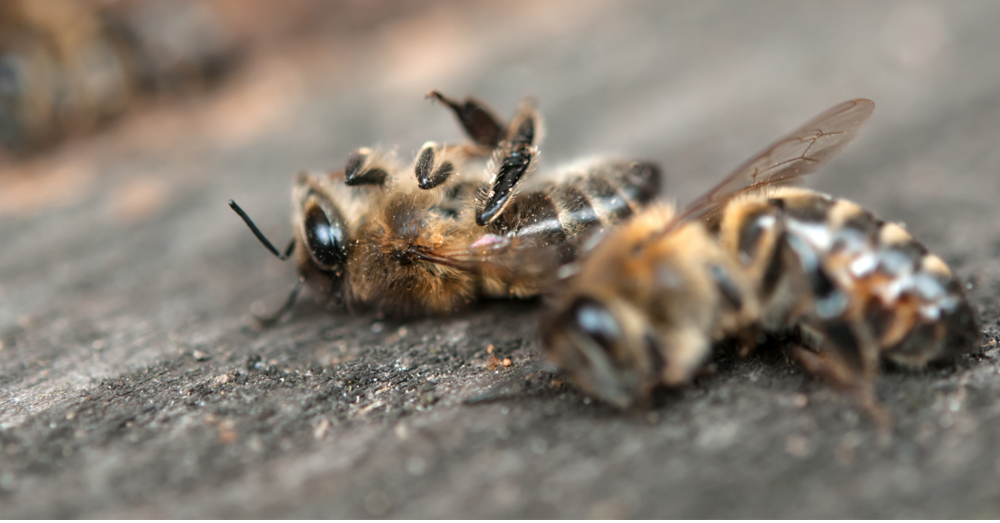
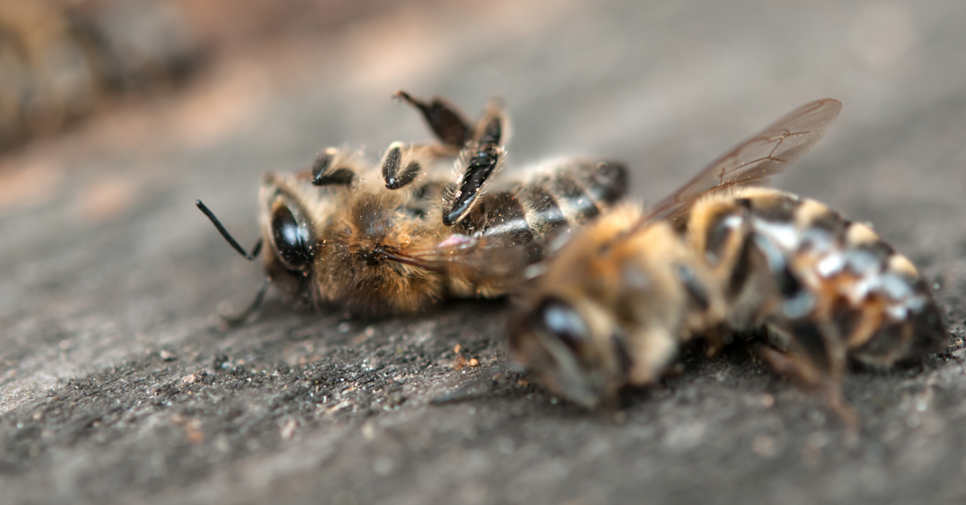
update to mission images

diff --git a/less/index.less b/less/index.less
@@ -244,7 +244,7 @@ h1 {
   }
 
 
-  .img1, .img2, .img3 {
+  .img1, .img2, .img3, .img4 {
       width: 45%;
       height: 300px;
       margin: 20px;
@@ -265,6 +265,11 @@ h1 {
   .img3 {
     margin-top: 25px;
     margin-right: 70px;
+  }
+
+  .img4 {
+    margin-top: 50px;
+    margin-right: 40px;
   }
 
   .topContent {
@@ -479,11 +484,10 @@ h1 {
           box-shadow: 0px 0px 10px 7px rgba(0,0,0,0.69); 
       }
     
-      .img1, .img2, .img3 {
+      .img1, .img2, .img3, .img4 {
           width: 100%;
           height: 100%;
           margin: 0px;
-
           border-radius: 15px;
           box-shadow: 0px 0px 10px 7px rgba(0,0,0,0.69); 
       }

diff --git a/css/index.css b/css/index.css
@@ -230,7 +230,8 @@ a:hover {
 }
 .img1,
 .img2,
-.img3 {
+.img3,
+.img4 {
   width: 45%;
   height: 300px;
   margin: 20px;
@@ -248,6 +249,10 @@ a:hover {
 .img3 {
   margin-top: 25px;
   margin-right: 70px;
+}
+.img4 {
+  margin-top: 50px;
+  margin-right: 40px;
 }
 .topContent {
   display: flex;
@@ -432,7 +437,8 @@ body {
   }
   .img1,
   .img2,
-  .img3 {
+  .img3,
+  .img4 {
     width: 100%;
     height: 100%;
     margin: 0px;

diff --git a/mission.html b/mission.html
@@ -69,7 +69,7 @@
         </section>
 
         <section class="middleContent">
-                <img class="img1" src="images/pest.jpg" alt="">
+                <img class="img4" src="images/pest.jpg" alt="">
             <div>
                    
                 <h1>Pesticides and Bees</h1>
